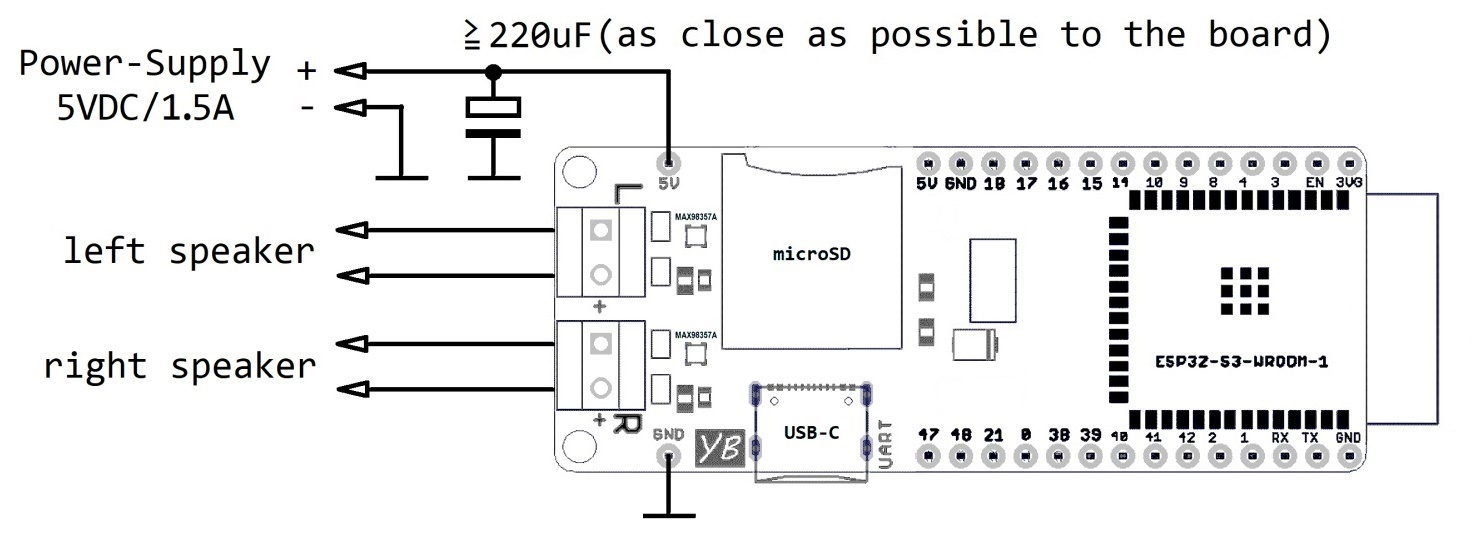
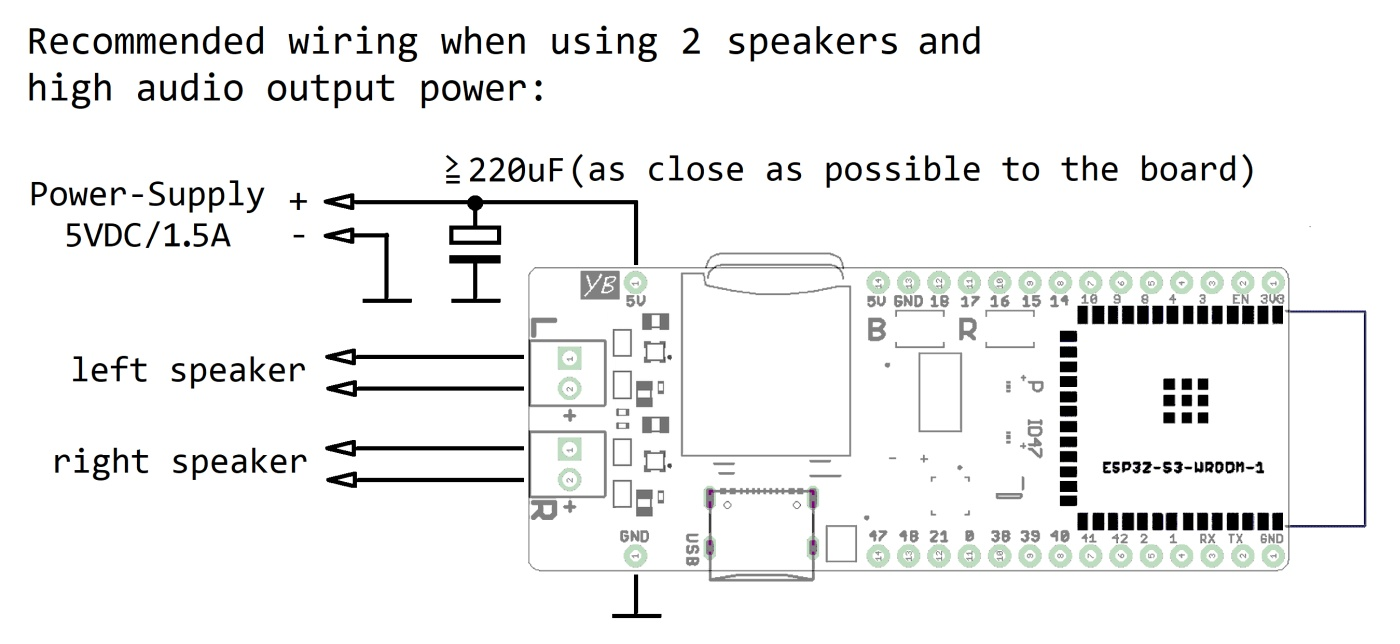
version update

Changed region(s): [[0.0, 0.0295, 0.9829, 0.9742], [0.0307, 0.4428, 0.215, 0.5018], [0.0307, 0.5609, 0.215, 0.6199]]

diff --git a/Readme.md b/Readme.md
@@ -1,49 +1,55 @@
 ## YB-ESP32-S3-AMP Development Board Overview:
-The **YB-ESP32-S3-AMP** is a general purpose development board based on Espressif's ESP32-S3 MCU. They are sold in two different flavours (**Rev.2** & **Rev.3**). Both versions feature an **ESP32-S3-WROOM-1-N8R2** module (8MB Flash, 2MB PSRAM, WiFi PCB antenna) and are available on sales platforms [eBay](https://www.ebay.de/sch/i.html?_nkw=yb-esp32-s3) and [Ricardo.ch](https://www.ricardo.ch/en/s/YB-ESP32-S3).
+The **YB-ESP32-S3-AMP** is a general purpose development board based on Espressif's ESP32-S3 MCU. It presently comes in two different variants and is available on sales platforms [eBay](https://www.ebay.de/sch/i.html?_nkw=yb-esp32-s3) and [Ricardo.ch](https://www.ricardo.ch/en/s/YB-ESP32-S3):
+- with **ESP32-S3-WROOM-1-N8R2 module** (8MB Flash, 2MB PSRAM, WiFi PCB Antenna),
+- without **ESP32-S3-WROOM-1 module** which allows you to solder on any ESP32-S3-WROOM module of your choice.
 
-Apart from the **ESP32-S3** they provide a **microSD** card slot, two **MAX98357A I2S PCM Class D Amplifiers** (for left + right audio channels), **USB-C connector** for software upload, serial output and/or feeding power to the board, **two status LEDs** and lots of **GPIO pins** for free usage.  
+Apart from the **ESP32-S3** it provides a **microSD** card slot, two **MAX98357A I2S PCM Class D Amplifiers** (for left + right audio channels), **USB-C connector** for software upload, serial output, JTAG debugging and/or feeding power to the board, **CH334 USB-Hub** chip, **CH343 USB-UART bridge** chip, **two status LEDs** and lots of **GPIO pins** for free usage.
 
-**Revision 2** features an USB bridge chip CH340 between USB-C and ESP32-S3 whereas **Revision 3** has the USB-C port connected directly to the ESP32-S3. 
+<p align="center"><img src="https://github.com/yellobyte/YB-ESP32-S3-AMP/raw/main/doc/YB-ESP32-S3-AMP_top_with_screw_terminals.jpg" height="160"/></p>
 
-**Which version V2 or V3 fits your purposes best ?**
+The onboard USB-Hub (USB high-speed HUB controller chip CH334) allows for **JTAG debugging and watching serial output simultaneously** without any problems. More info further down.
 
-If you are keen on using the ESP32-S3 built-in JTAG circuitry e.g. with the integrated debugger the VSCode/PlatformIO IDE provides then V3 is your board. However, since the ESP32-S3 is attached directly to the USB-Port your PC will lose the COM port for a few seconds when you reset the board. That can disturb some dev environments and sometimes can be a bit irritating especially for ESP32-S3 novices.  
+Of course you can **connect additional hardware** to the board, e.g. TFT displays, IR receivers or any other module that communicates via I2C/SPI, etc. The **I2S bus signals** (**D**ata, **L**eft/**R**ight (word) clock, **B**it clock) are accessible via **solder pads** on the bottom of the board for attaching external I2S components if needed.  
 
-If you don't need the integrated JTAG debugging feature then you are better off with the V2 board because your PC will not lose the COM port during reset and the onboard boot/reset logic makes uploading a bit easier since no buttons need to be pressed.
+The densly populated YB-ESP32-S3-AMP board provides multiple GPIO pins (as shown below) and is still highly [**breadboard compatible**](https://github.com/yellobyte/YB-ESP32-S3-AMP/raw/main/doc/YB-ESP32-S3-AMP_on_breadboard.jpg) for it leaves one row of accessible breadboard contacts on either side of the board. All I/O ports (GPIOx) are clearly labeled on both sides of the board.  
 
-<p align="center"><img src="https://github.com/yellobyte/YB-ESP32-S3-AMP/raw/main/doc/YB-ESP32-S3-AMP_Rev2_top_with_screw_terminals.jpg" height="160"/><img src="https://github.com/yellobyte/YB-ESP32-S3-AMP/raw/main/doc/YB-ESP32-S3-AMP_Rev3_top_with_screw_terminals.jpg" height="160"/></p>  
+Please have a look at the provided [examples](https://github.com/yellobyte/YB-ESP32-S3-AMP/tree/main/examples) for PlatformIO resp. ArduinoIDE.
+Most of them use Schreibfaul1's awesome Arduino library [**ESP32-audioI2S**](https://github.com/schreibfaul1/ESP32-audioI2S) which is highly suitable for this board.
 
-For an easy start **connect 2 loudspeakers (4...8 Ohm)** to the board, apply power, build and upload an example and off you go. You quickly can listen to **internet radio stations**, **play audio files from microSD card** and much more.  
+## Quickstart guide:
+**All YB-ESP32-S3-AMP boards delivered have already been flashed with software example 'Play-All-MP3-Files-on-SD'.**
+- Step 1) connect one or two 4Ω...8Ω loudspeaker(s) to the board
+- Step 2) insert a microSD card (FAT32) holding some *.mp3 files
+- Step 3) apply power (via USB or 5V pins)
 
-Of course you can connect additional hardware to the board, e.g. TFT displays, IR receivers or any other module that communicates via I2C/SPI, etc. Please have a look at the provided [examples](https://github.com/yellobyte/YB-ESP32-S3-AMP/tree/main/examples) for PlatformIO resp. ArduinoIDE. 
-Most of them use Schreibfaul1's awesome Arduino library [**ESP32-audioI2S**](https://github.com/schreibfaul1/ESP32-audioI2S) which is highly suitable for this board.  
+That's it. The status LED will light up when the microSD card has been detected ok and the board will start playing all *.mp3 files found.
 
-The densly populated YB-ESP32-S3-AMP board provides multiple GPIO pins (as shown below) and is still highly [**breadboard compatible**](https://github.com/yellobyte/YB-ESP32-S3-AMP/raw/main/doc/YB-ESP32-S3-AMP_on_breadboard.jpg) for it leaves one row of accessible breadboard contacts on either side of the board. All I/O ports (GPIOx) are clearly labeled on both sides of the board. 
+Carrying on you could build and upload one of the many provided ArduinoIDE/PlatformIO [examples](https://github.com/yellobyte/YB-ESP32-S3-AMP/tree/main/examples) and listen to internet radio stations, play an audio file from your NAS running a media server and much more.
 
 ## YB-ESP32-S3-AMP board features in detail:
- - **ESP32-S3-WROOM-1-N8R2** module with 8MB Flash, 2MB PSRAM, WiFi PCB antenna
+ - **ESP32-S3-WROOM-1-N8R2** module with 8MB Flash, 2MB PSRAM, WiFi PCB antenna (when populated with WROOM module)
  - **2 x MAX98357A** I2S PCM Class D Amplifier (3.2W@4Ω) connected to the ESP32-S3 as follows:
    - *GPIO5 - BCLK* (bit clock)
    - *GPIO6 - LRCLK* (frame clock)
-   - *GPIO7 - DIN* (digital audio signal)  
+   - *GPIO7 - DIN* (digital audio signal)
 
     Note: GPIOs 5/6/7 are not wired to any board pin, they are exclusively used for the two MAX98357A.
- - **screw terminals** for connecting 2 loudspeakers (4...8 Ohm, left + right audio channel)
+ - **screw terminals** for connecting 2 loudspeakers (4...8Ω, left + right audio channel)
  - **microSD** card slot connected to the ESP32-S3 via fast SPI bus *FSPI*:
    - *GPIO10 - SCS* (SPI bus control, chip select, this control line is not needed for SD_MMC-lib and available for other usage when solder bridge *SD_CS* is open [default closed])
    - *GPIO11 - MOSI* (SPI bus data communication, SD_MMC calls it *CMD*)
    - *GPIO12 - SCK* (SPI bus clock signal)
-   - *GPIO13 - MISO* (SPI bus data communication, SD_MMC calls it *D0*)  
+   - *GPIO13 - MISO* (SPI bus data communication, SD_MMC calls it *D0*)
 
    Note: GPIOs 11/12/13 are not wired to any board pin, they are exclusively used for the microSD slot.
- - **control LEDs**. One LED labeled 'P' is connected to the 3.3V rail to indicate board power and the other LED labeled 'IO47' is connected to GPIO47 which can be used as status LED.  
+ - **control LEDs**. One LED labeled 'P' is connected to the 3.3V rail to indicate board power and the other LED labeled 'IO47' is connected to GPIO47 which can be used as status LED.
  If solder bridge *DAC_MUTE* is closed [default open] this pin can be used for muting the two audio amplifiers: active when GPIO47 is HIGH or muted when GPIO47 is LOW.
- - **USB-C** port connected to ESP32-S3 via USB-TTL bridge chip CH340 (board revision 2.x only) resp. directly to the ESP32-S3 (board revision 3.x only) for serial output and software upload (e.g. via ArduinoIDE, VSCode/PlatformIO etc). Can also be used to power the board.
- - **hardware logic** for *automatic* software uploads (supported by most Development IDEs) via USB-C port on boards with version 2.x. How this works is explained [here](https://github.com/yellobyte/ESP32-DevBoards-Getting-Started/tree/main/reset_and_software_upload).  
+ - **USB-C** port connected to the onboard CH334 USB-Hub chip. This allows for simultaneous JTAG debugging and serial output as well as software upload (e.g. via ArduinoIDE, VSCode/PlatformIO etc). The ESP32-S3 contains an inbuild JTAG adapter hence [**debugging**](https://github.com/yellobyte/ESP32-DevBoards-Getting-Started/tree/main/debugging) becomes fairly easy.
+ - **hardware logic** for *automatic* software uploads (supported by most Development IDEs) via USB-C port using the onboard CH343 USB-UART bridge chip.
  - **pushbuttons**. One is labeled 'R' and resets the ESP32-S3 (shorts EN pin to ground) and the other one is labeled 'B' and shorts GPIO0 to ground when pressed. The latter is sometimes needed to force the board into boot mode.
  - **lots of available GPIOs**, useful for connecting LEDs, buttons, additional modules via second SPI bus or I2C, e.g displays, rotary encoders, bluetooth, etc.
 
-In summary, the board replaces a lot of separate modules & cables, saves space on the breadboard and might avoid the odd frustration to get it all running.  
+In summary, the board replaces a lot of separate modules & cables, saves space on the breadboard and might avoid the odd frustration to get it all running.
 
  ![](https://github.com/yellobyte/YB-ESP32-S3-AMP/raw/main/doc/YB-ESP32-S3-AMP_modules_replacement.jpg)
 
@@ -55,56 +61,54 @@ The boards **outline** and **schematic** files are all located in folder [doc](h
 ## Powering the board:
 There are two ways to provide power to the board:
   - through the USB-C port or
-  - ~5VDC applied to the 5V pin  
+  - ~5VDC applied to the 5V pin
 
-The board uses a LDO to drop the external supply voltage to 3.3Volt needed by the ESP32-S3. The two audio amplifiers MAX98357A though get their voltage directly from pin '5V'. They can operate up to 5.5V and their absolute maximum rating is 6V. Therefore **never supply more than ~5.5VDC to the '5V' power input pins** !!  
+The board uses a LDO to drop the external supply voltage to 3.3Volt needed by the ESP32-S3. The two audio amplifiers MAX98357A though get their voltage directly from pin '5V'. They can operate up to 5.5V and their absolute maximum rating is 6V. Therefore **never supply more than ~5.5VDC to the '5V' power input pins** !!
 
 Normal operating current of the idle board (all GPIOs unconnected, no audio output, WiFi disabled) is about 45mA. With WiFi active the board draws about 100mA (mainly depending on WiFi link). With WiFi active, a microSD in the slot and lower audio output power on both amp channels the current rises to ~160mA.
 
 ### Recommended wiring for max. audio output power:
-
-Each audio channel can produce max. 3.2W output power at 4 Ohms. If your project requires more then just a few mW of audio output power it is recommended to use a capable power supply (5VDC/1.5A) and preferably an additional capacitor of min. 220uF or greater value across the 5V/GND pins of the board as shown below:  
+Each audio channel can produce max. 3.2W output power at 4 Ohms. If your project requires more then just a few mW of audio output power it is recommended to use a capable power supply (5VDC/1.5A) and preferably an additional capacitor of min. 220uF or greater value across the 5V/GND pins of the board as shown below:
 
 ![](https://github.com/yellobyte/YB-ESP32-S3-AMP/raw/main/doc/YB-ESP32-S3-AMP_recommended_wiring.jpg)
 
-## Application hints: 
-The board with revision 2.x uses the popular WCH CH340X bridge chip between USB-C port and the ESP32-S3. If you plan to use the USB port then you need to install the CH340X Drivers on your Laptop/PC. For Windows go [here](https://www.wch-ic.com/search?t=all&q=ch341) and select the newest version of the driver installer 'CH341SER.EXE'. 
+## Application hints:
+The board uses a WCH chip CH343P (USB-UART bridge). If you haven't done yet then you need to install the CH343 Driver on your Laptop/PC. For Windows go [here](https://www.wch-ic.com/search?t=all&q=ch343) and download and install the newest version of the driver. Linux provides CH34x drivers by default.
 
 ### Arduino IDE:
-As of Arduino ESP32 Core V3.1.1 you open the board list, enter "yb" and then select "**Yellobyte YB-ESP32-S3-AMP**". Now choose the proper settings for COM port, debug level, flash size, PSRAM, etc. as shown below. Be aware, since the ESP32-S3 MCU is very versatile there are a lot of build options to play with. Espressif's homepage offers some help.
+As of Arduino ESP32 Core V3.3.6 you open the board list, enter "yb" and then select "**Yellobyte YB-ESP32-S3-AMP**". Now choose the proper settings for COM port, debug level, etc. as shown below. Be aware, since the ESP32-S3 MCU is very versatile there are a lot of build options to play with. Espressif's homepage offers some help.
 
-Correct **ArduinoIDE** settings for the **YB-ESP32-S3-AMP (Rev.2, with CH340)** board:  
-- Board: *YB-ESP32-S3-AMP (Rev.2)*
+Correct **ArduinoIDE** settings for the **YB-ESP32-S3-AMP** board with 8MB Flash & 2MB PSRAM:
+- Board: *YB-ESP32-S3-AMP*
 - USB CDC On Boot: _Disabled_
 - Flash Size: *8MB (64Mb)*
 - Partition Scheme: *8MB with spiffs (...)*
-- PSRAM: *QSPI PSRAM*  
+- PSRAM: *QSPI PSRAM*
 
- ![](https://github.com/yellobyte/YB-ESP32-S3-AMP/raw/main/doc/YB-ESP32-S3-AMP_Rev2_ArduinoIDE-Settings.jpg) 
+ ![](https://github.com/yellobyte/YB-ESP32-S3-AMP/raw/main/doc/YB-ESP32-S3-AMP_ArduinoIDE-Settings-N8R2.jpg)
 
-Following the correct **ArduinoIDE** settings for the **YB-ESP32-S3-AMP (Rev.3)** board:  
-- Board: *YB-ESP32-S3-AMP (Rev.3)*
-- USB CDC On Boot: **_Enabled_**
-- Flash Size: *8MB (64Mb)*
-- Partition Scheme: *8MB with spiffs (...)*
-- PSRAM: *QSPI PSRAM* 
+For boards with different WROOM modules (e.g. -N8R8, -N16R8) you need to adjust the settings of course.
 
- ![](https://github.com/yellobyte/YB-ESP32-S3-AMP/raw/main/doc/YB-ESP32-S3-AMP_Rev3_ArduinoIDE-Settings.jpg) 
-  
 ### PlatformIO:
-Building with **PlatformIO** is easy as well. Starting with Arduino ESP32 Core v3.1.1 the VSCode/PlatformIO IDE provides all the necessary board definition files. These *.json files provide the correct board definitions & settings.  
+Building with **PlatformIO** is easy as well. Starting with Arduino ESP32 Core v3.3.6 the VSCode/PlatformIO IDE holds all the necessary *.json board files that provide the correct board definitions & settings.
 
-Just create a new project and give it a name, then go to board selection, enter "yb-" and choose your YB-ESP32-S3-*** board from the list thats popping up.
+Just create a new project and give it a name, then go to board selection, enter "yb-" and choose your YB-ESP32-S3-AMP*** board from the list thats popping up.
 
  ![](https://github.com/yellobyte/YB-ESP32-S3-AMP/raw/main/doc/YB-ESP32-S3-AMP_PlatformIO_board_selection.jpg)
 
-Examples that need to be build with an older framework still come with a folder "boards" which keeps the necessary *.json board definition files. 
+### Using the USB-C port:
+With the board connected to your PC/Laptop you'll see 3 additional USB devices. Two COM ports: **Serial USB device** and **USB-Enhanced-Serial CH343** and one device: **USB JTAG/serial debug unit** (or similar, depending on your OS).
+
+You can connect a serial monitor program on your PC/Laptop to device "USB-Enhanced-Serial CH343" and watch the serial output generated with e.g. Serial.print(). Important: This serial connection is **not** affected by any board reset.
+
+Device "USB JTAG/serial debug unit" lets you simultaneously debug the board via the ESP32-S3 integrated JTAG debug circuitry. How to use the latter for debugging is explained in detail [**here**](https://github.com/yellobyte/ESP32-DevBoards-Getting-Started/tree/main/debugging).
+
+**Please note:** The PlatformIO builder scripts (*.json) for modules containing ESP32-S3/C3 normally define the build flag _ARDUINO_USB_MODE=1_. This enables the USB-Serial-JTAG controller and disables the USB-OTG-Controller in the ESP32-S3. If you want to override it you can (re-)define it in your platformio.ini control file. Normally you don't have to worry about it.
 
 ### Software Upload to the board:
-
 Uploading new software to boards with your IDE is a breeze. Select the correct COM port and upload the program. The integrated hardware logic will put the board into upload mode automatically.
 
-However, at any time and if needed you can force the ESP32-S3 into upload mode *manually*. Keep the **'B'** button pressed, then press/release the **'R'** button and finally release the **'B'** button. The serial monitor output will subsequently confirm the boards readiness for getting flashed.  
+However, at any time and if needed you can force the ESP32-S3 into upload mode *manually*. Keep the **'B'** button pressed, then press/release the **'R'** button and finally release the **'B'** button. The serial monitor output will subsequently confirm the boards readiness for getting flashed.
 
 ```
 ....
@@ -115,10 +119,9 @@ However, at any time and if needed you can force the ESP32-S3 into upload mode *
 ```
 
 ### Flash/RAM usage:
-
-The -N8R2 module on the board should provide enough memory even for demanding projects. Building e.g. software example [Play-All-MP3-Files-on-SD](https://github.com/yellobyte/YB-ESP32-S3-AMP/tree/main/examples/ArduinoIDE/Play-All-MP3-Files-on-SD) shows the following Flash/RAM usage:  
+The -N8R2 module on the board should provide enough memory even for demanding projects. Building e.g. software example [Play-All-MP3-Files-on-SD](https://github.com/yellobyte/YB-ESP32-S3-AMP/tree/main/examples/PlatformIO/Play-All-MP3-Files-on-SD) shows the following Flash/RAM usage:
 ```
-Executing task: C:\Users\tj\.platformio\penv\Scripts\platformio.exe run 
+Executing task: C:\Users\tj\.platformio\penv\Scripts\platformio.exe run
 
 Processing v2 (board: yb-esp32-s3-amp-v2; platform: espressif32; framework: arduino)
 ------------------------------------------------------------------------------------------------------------------------------------
@@ -127,10 +130,10 @@ CONFIGURATION: https://docs.platformio.org/page/boards/espressif32/yb-esp32-s3-a
 PLATFORM: Espressif 32 (6.9.0) > YB-ESP32-S3-AMP (8 MB QD FLASH, 2 MB PSRAM)
 HARDWARE: ESP32S3 240MHz, 320KB RAM, 8MB Flash
 DEBUG: Current (esp-builtin) On-board (esp-builtin) External (cmsis-dap, esp-bridge, esp-prog, iot-bus-jtag, jlink, minimodule, olimex-arm-usb-ocd, olimex-arm-usb-ocd-h, olimex-arm-usb-tiny-h, olimex-jtag-tiny, tumpa)
-PACKAGES: 
- - framework-arduinoespressif32 @ 3.20017.0 (2.0.17) 
- - tool-esptoolpy @ 1.40501.0 (4.5.1) 
- - toolchain-riscv32-esp @ 8.4.0+2021r2-patch5 
+PACKAGES:
+ - framework-arduinoespressif32 @ 3.20017.0 (2.0.17)
+ - tool-esptoolpy @ 1.40501.0 (4.5.1)
+ - toolchain-riscv32-esp @ 8.4.0+2021r2-patch5
  - toolchain-xtensa-esp32s3 @ 8.4.0+2021r2-patch5
 LDF: Library Dependency Finder -> https://bit.ly/configure-pio-ldf
 LDF Modes: Finder ~ chain, Compatibility ~ soft
@@ -149,24 +152,14 @@ RAM:   [=         ]   8.4% (used 27608 bytes from 327680 bytes)
 Flash: [===       ]  28.5% (used 950957 bytes from 3342336 bytes)
 ```
 ### General notes:
-
 1) In case you get left channel output on the right speaker and vice-versa (L + R channels are swapped) you need to build with a [newer ESP32-AudioI2S library version](https://github.com/schreibfaul1/ESP32-audioI2S/releases) with this error fixed.
 
 2) The ESP32-S3 includes four SPI controllers: SPI0, SPI1, SPI2(Fast SPI) and SPI3. SPI0/1 are reserved for Flash and PSRAM (if available) and should be left alone. The remaining two are available for the public. In the Arduino universe SPI2 & SPI3 are named FSPI & HSPI. FSPI by default is assigned to GPIOs 10-15 and routed via IO MUX. However, both can get pinned to any available GPIO pin if needed but FSPI will be slower if routed through GPIO Matrix
 
-3) The ESP32-S3-WROOM-1 module family comprises several [**versions**](https://github.com/yellobyte/ESP32-DevBoards-Getting-Started/raw/main/ESP32_specs_and_manuals/ESP32-S3-WROOM-1(U)_Variants.jpg). The **-1** versions come with embedded PCB antenna, the **-1U** versions with IPEX antenna socket instead. The extension -Nx(Ry) defines the amount of integrated FLASH/PSRAM, e.g. -N4 (4MB Flash, no PSRAM), -N4R2 (4 MB Flash, 2MB PSRAM), -N8R2 (8 MB Flash, 2MB PSRAM) etc.  
-
-5) Boards with revision 3.x support USB Serial JTAG debugging. An example is provided [here](https://github.com/yellobyte/YB-ESP32-S3-AMP/tree/main/examples/PlatformIO/Debug-BoardRev3-via-builtin-JTAG). 
+3) The ESP32-S3-WROOM-1 module family comprises several [**versions**](https://github.com/yellobyte/ESP32-DevBoards-Getting-Started/raw/main/ESP32_specs_and_manuals/ESP32-S3-WROOM-1(U)_Variants.jpg). The **-1** versions come with embedded PCB antenna, the **-1U** versions with IPEX antenna socket instead. The extension -Nx(Ry) defines the amount of integrated FLASH/PSRAM, e.g. -N4 (4MB Flash, no PSRAM), -N4R2 (4 MB Flash, 2MB PSRAM), -N8R2 (8 MB Flash, 2MB PSRAM) etc.
 
 ### Integrating this board into your own PCB design projects:
+Its easy. Folder [doc](https://github.com/yellobyte/YB-ESP32-S3-AMP/tree/main/doc) provides the Eagle library file **_yb-esp32-s3-amp.lbr_** containing both boards. Most other PCB design software (e.g. KiCad) are able to import and use Eagle lib files.
 
-Its easy. Folder [doc](https://github.com/yellobyte/YB-ESP32-S3-AMP/tree/main/doc) provides the Eagle library file **_yb-esp32-s3-amp.lbr_** containing both boards. Most other PCB design software (e.g. KiCad) are able to import and use Eagle lib files. 
+<p align="center"><img src="https://github.com/yellobyte/YB-ESP32-S3-AMP/raw/main/doc/Eagle_project_with_yb-esp32-s3-amp.jpg" height="250"/>&nbsp;<img src="https://github.com/yellobyte/YB-ESP32-S3-AMP/raw/main/doc/Eagle_project_with_yb-esp32-s3-amp2.jpg" height="250"/></p>
 
-<p align="center"><img src="https://github.com/yellobyte/YB-ESP32-S3-AMP/raw/main/doc/Eagle_project_with_yb-esp32-s3-amp.jpg" height="250"/>&nbsp;<img src="https://github.com/yellobyte/YB-ESP32-S3-AMP/raw/main/doc/Eagle_project_with_yb-esp32-s3-amp2.jpg" height="250"/></p> 
-
-## Final Remark for first usage:  
-**>>> All YB-ESP32-S3-AMP boards delivered have already been flashed with software example 'Play-All-MP3-Files-on-SD'. <<<**  
-
-For a quick board test just insert a microSD card (FAT32) into the socket holding some *.mp3 files, connect one or two speaker(s) to the board and power it up (via USB or 5V pins).  
-
-The status LED will light up when the microSD card has been detected successfully and the board will start playing all *.mp3 files found.
